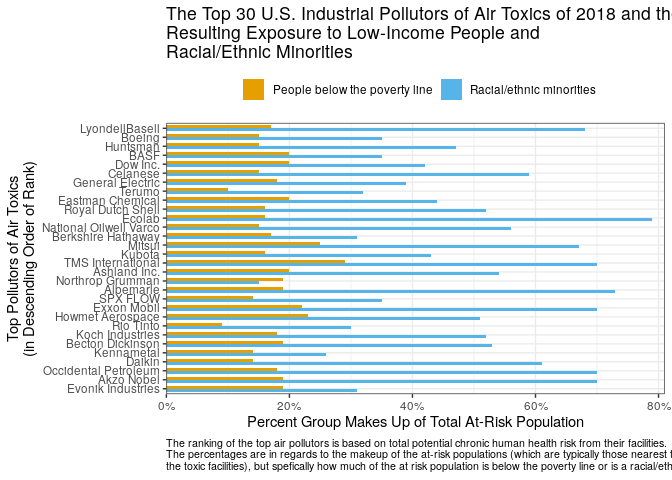
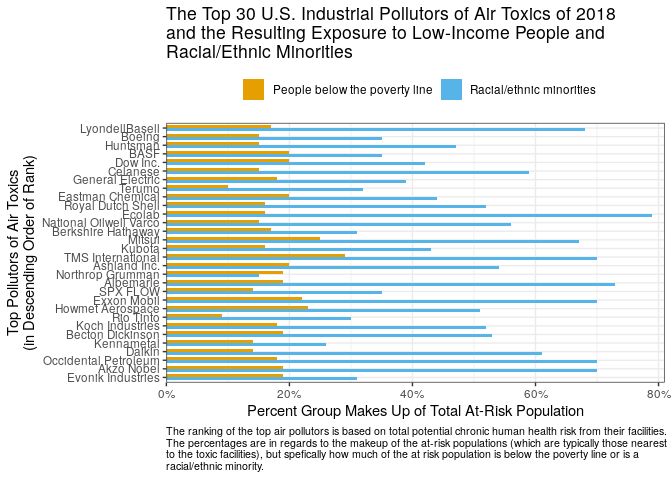
that caption

Changed region(s): [[0.0, 0.2812, 1.0, 1.0], [0.25, 0.0312, 0.9062, 0.0938], [0.9062, 0.0, 1.0, 0.0625]]

diff --git a/README.md b/README.md
@@ -21,10 +21,10 @@ The development version of XXX is available from
 
 ``` r
 install.packages("devtools")
-#> Installing package into '/tmp/RtmpNRmzp3/temp_libpath32b72a6a0e00'
+#> Installing package into '/tmp/RtmpNRmzp3/temp_libpath32b7196089c7'
 #> (as 'lib' is unspecified)
 install.packages("topPolluters")
-#> Installing package into '/tmp/RtmpNRmzp3/temp_libpath32b72a6a0e00'
+#> Installing package into '/tmp/RtmpNRmzp3/temp_libpath32b7196089c7'
 #> (as 'lib' is unspecified)
 #> Warning: package 'topPolluters' is not available for this version of R
 #> 
@@ -123,8 +123,8 @@ topPolluters %>%
     expand = expansion(add = c(0, 2))
   ) +
   labs(
-    title = "The Top 30 U.S. Industrial Pollutors of Air Toxics of 2018 and the\nResulting Exposure to Low-Income People and\nRacial/Ethnic Minorities",
-    caption = "The ranking of the top air pollutors is based on total potential chronic human health risk from their facilities.\nThe percentages are in regards to the makeup of the at-risk populations (which are typically those nearest to\nthe toxic facilities), but spefically how much of the at risk population is below the poverty line or is a racial/ethnic minority.",
+    title = "The Top 30 U.S. Industrial Pollutors of Air Toxics of 2018\nand the Resulting Exposure to Low-Income People and\nRacial/Ethnic Minorities",
+    caption = "The ranking of the top air pollutors is based on total potential chronic human health risk from their facilities.\nThe percentages are in regards to the makeup of the at-risk populations (which are typically those nearest\nto the toxic facilities), but spefically how much of the at risk population is below the poverty line or is a\nracial/ethnic minority.",
     x = "Top Pollutors of Air Toxics\n(in Descending Order of Rank)",
     y = "Percent Group Makes Up of Total At-Risk Population"
   ) +
